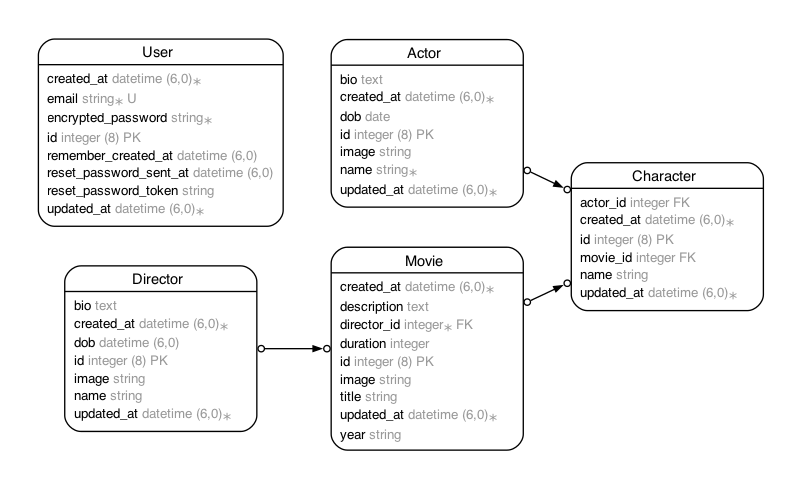
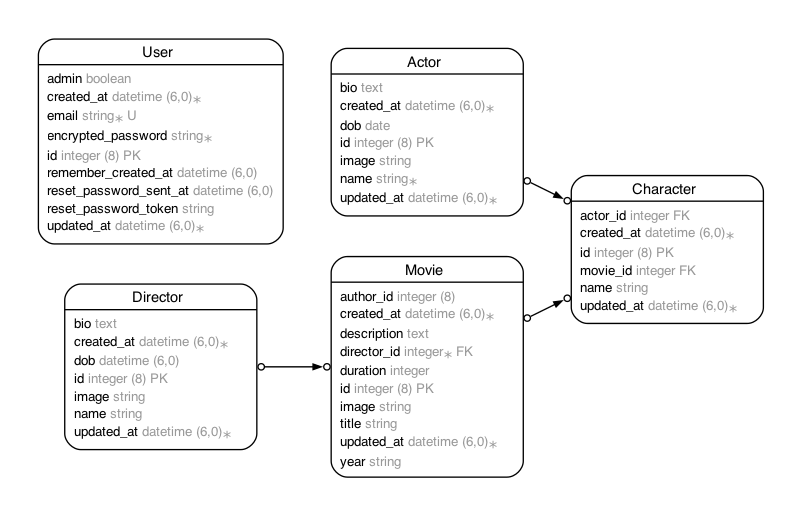
Add user authorization for movies using pundit gem

diff --git a/app/controllers/movies_controller.rb b/app/controllers/movies_controller.rb
@@ -1,5 +1,7 @@
 class MoviesController < ApplicationController
+  before_action :authenticate_user!, only: [:new, :create, :edit, :update, :destroy]
   before_action :set_movie, only: [:show, :edit, :update, :destroy]
+  before_action :authorize_movie
 
   def index
     @q = Movie.ransack(params[:q])
@@ -31,12 +33,13 @@ class MoviesController < ApplicationController
   end
 
   def create
+    # @movie = current_user.authored_movies.new(movie_params)
     @movie = Movie.new(movie_params)
+    @movie.author = current_user
 
     if @movie.valid?
       @movie.save
-      # TODO: redirect to movies#show
-      redirect_to("/movies", { :notice => "Movie created successfully." })
+      redirect_to(@movie, { :notice => "Movie created successfully." })
     else
       render({ :template => "movies/new" })
     end
@@ -73,10 +76,14 @@ class MoviesController < ApplicationController
   private
 
   def movie_params
-    params.require("movie").permit(:title, :year, :director_id)
+    params.require("movie").permit(:title, :year, :director_id, :image)
   end
 
   def set_movie
     @movie = Movie.find(params.fetch("id"))
+  end
+
+  def authorize_movie
+    authorize(@movie || Movie)
   end
 end

diff --git a/db/schema.rb b/db/schema.rb
@@ -10,7 +10,7 @@
 #
 # It's strongly recommended that you check this file into your version control system.
 
-ActiveRecord::Schema[7.1].define(version: 2025_06_24_164914) do
+ActiveRecord::Schema[7.1].define(version: 2025_07_01_162545) do
   # These are extensions that must be enabled in order to support this database
   enable_extension "plpgsql"
 
@@ -49,6 +49,8 @@ ActiveRecord::Schema[7.1].define(version: 2025_06_24_164914) do
     t.string "image"
     t.datetime "created_at", null: false
     t.datetime "updated_at", null: false
+    t.bigint "author_id"
+    t.index ["author_id"], name: "index_movies_on_author_id"
   end
 
   create_table "users", force: :cascade do |t|
@@ -59,8 +61,10 @@ ActiveRecord::Schema[7.1].define(version: 2025_06_24_164914) do
     t.datetime "remember_created_at"
     t.datetime "created_at", null: false
     t.datetime "updated_at", null: false
+    t.boolean "admin", default: false
     t.index ["email"], name: "index_users_on_email", unique: true
     t.index ["reset_password_token"], name: "index_users_on_reset_password_token", unique: true
   end
 
+  add_foreign_key "movies", "users", column: "author_id"
 end

diff --git a/app/policies/application_policy.rb b/app/policies/application_policy.rb
@@ -1,0 +1,53 @@
+# frozen_string_literal: true
+
+class ApplicationPolicy
+  attr_reader :user, :record
+
+  def initialize(user, record)
+    @user = user
+    @record = record
+  end
+
+  def index?
+    false
+  end
+
+  def show?
+    false
+  end
+
+  def create?
+    false
+  end
+
+  def new?
+    create?
+  end
+
+  def update?
+    false
+  end
+
+  def edit?
+    update?
+  end
+
+  def destroy?
+    false
+  end
+
+  class Scope
+    def initialize(user, scope)
+      @user = user
+      @scope = scope
+    end
+
+    def resolve
+      raise NoMethodError, "You must define #resolve in #{self.class}"
+    end
+
+    private
+
+    attr_reader :user, :scope
+  end
+end

diff --git a/app/models/user.rb b/app/models/user.rb
@@ -3,6 +3,7 @@
 # Table name: users
 #
 #  id                     :bigint           not null, primary key
+#  admin                  :boolean          default(FALSE)
 #  email                  :string           default(""), not null
 #  encrypted_password     :string           default(""), not null
 #  remember_created_at    :datetime
@@ -24,4 +25,6 @@ class User < ApplicationRecord
           :rememberable,
           :validatable,
           :registerable
+
+  has_many :authored_movies, class_name: "Movie", foreign_key: "author_id", dependent: :nullify
 end

diff --git a/app/policies/movie_policy.rb b/app/policies/movie_policy.rb
@@ -1,0 +1,33 @@
+class MoviePolicy < ApplicationPolicy
+
+  def index?
+    true
+  end
+
+  def show?
+    true
+  end
+
+  def create?
+    true
+  end
+
+  def update?
+    return false unless @user
+
+    @user.admin? || @record.author == @user
+  end
+
+  def destroy?
+    return false unless @user
+
+    @user.admin? || @record.author == @user
+  end
+
+  class Scope < ApplicationPolicy::Scope
+    # NOTE: Be explicit about which records you allow access to!
+    # def resolve
+    #   scope.all
+    # end
+  end
+end

diff --git a/app/models/movie.rb b/app/models/movie.rb
@@ -10,10 +10,20 @@
 #  year        :string
 #  created_at  :datetime         not null
 #  updated_at  :datetime         not null
+#  author_id   :bigint
 #  director_id :integer
+#
+# Indexes
+#
+#  index_movies_on_author_id  (author_id)
+#
+# Foreign Keys
+#
+#  fk_rails_...  (author_id => users.id)
 #
 class Movie < ApplicationRecord
   include Ransackable
+  belongs_to :author, class_name: "User"
   belongs_to :director
   validates(:director_id, presence: true, numericality: { greater_than: 0 })
 

diff --git a/app/controllers/concerns/punditable.rb b/app/controllers/concerns/punditable.rb
@@ -1,0 +1,15 @@
+module Punditable
+  extend ActiveSupport::Concern
+  include Pundit::Authorization
+
+  included do
+    rescue_from Pundit::NotAuthorizedError, with: :user_not_authorized
+  end
+
+  private
+
+  def user_not_authorized
+    flash[:alert] = "You are not authorized to perform this action."
+    redirect_back_or_to(root_path)
+  end
+end

diff --git a/db/migrate/20250701162545_add_author_to_movies.rb b/db/migrate/20250701162545_add_author_to_movies.rb
@@ -1,0 +1,5 @@
+class AddAuthorToMovies < ActiveRecord::Migration[7.1]
+  def change
+    add_reference :movies, :author, foreign_key: { to_table: :users }
+  end
+end

diff --git a/db/migrate/20250701162449_add_admin_to_users.rb b/db/migrate/20250701162449_add_admin_to_users.rb
@@ -1,0 +1,5 @@
+class AddAdminToUsers < ActiveRecord::Migration[7.1]
+  def change
+    add_column :users, :admin, :boolean, default: false
+  end
+end

diff --git a/app/controllers/application_controller.rb b/app/controllers/application_controller.rb
@@ -1,3 +1,4 @@
 class ApplicationController < ActionController::Base
   skip_forgery_protection
+  include Punditable
 end
